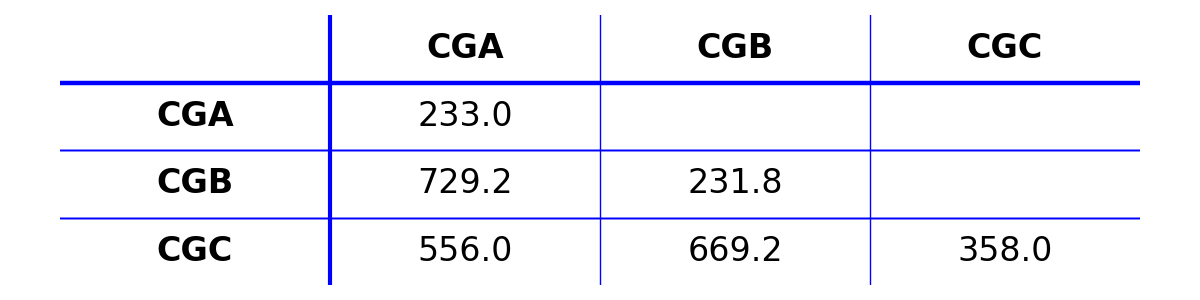
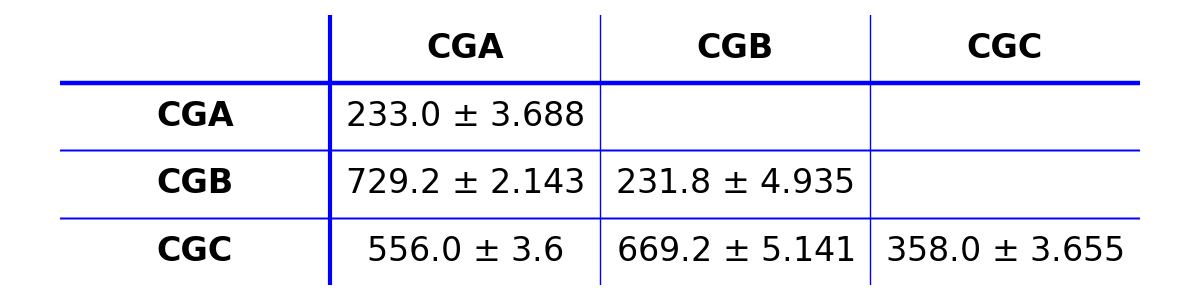
Number of contacts uncertainty.

diff --git a/contacts_plt.py b/contacts_plt.py
@@ -20,27 +20,31 @@ ax=plt.subplot(1,1,1)
 
 plt.axis('off')
 
-tab={}
+val={}
+err={}
 labx=[]
 laby=[]
 
 for line in fi:
  w=line.split()
 
- tab[w[0],w[1]]=w[2]
+ val[w[0],w[1]]=w[2]
+ err[w[0],w[1]]=w[4]
 
  if w[0] not in labx:
   labx.append(w[0])
  if w[1] not in laby:
   laby.append(w[1])
 
-mat=numpy.zeros((len(labx),len(laby)))
+valmat=numpy.zeros((len(labx),len(laby)))
+errmat=numpy.zeros((len(labx),len(laby)))
 
 for matx in range(0,len(labx)):
  for maty in range(0,len(laby)):
 
-  if (labx[matx],laby[maty]) in tab:
-   mat[matx,maty]=tab[labx[matx],laby[maty]]
+  if (labx[matx],laby[maty]) in val:
+   valmat[matx,maty]=val[labx[matx],laby[maty]]
+   errmat[matx,maty]=err[labx[matx],laby[maty]]
 
 ### plot label x
 
@@ -72,8 +76,10 @@ for matx in range(0,len(labx)):
 
   plot([0,10],[maty+1.5,maty+1.5],color=lc,lw=linew)	### horizontal line
 
-  if (labx[matx],laby[maty]) in tab:	### leave empty if the matrix is symmetric
-   ax.text(matx+2,len(laby)-maty,mat[matx,maty],ha="center",va="center",fontsize=fs)
+  if (labx[matx],laby[maty]) in val:	### leave empty if the matrix is symmetric
+   ax.text(matx+2,len(laby)-maty,
+   str(valmat[matx,maty])+r" $\pm$ "+str(errmat[matx,maty]),
+   ha="center",va="center",fontsize=fs)
 
 xlim(0.5,len(labx)+1.5)
 ylim(0.5,len(laby)+1.5)

diff --git a/README.md b/README.md
@@ -67,6 +67,7 @@ If not specified by the *-bs* option the bin size is equal to 0.5 nm.
 <li>Number and percentage of contacts betweed different types of molecules (<i>contacts.dat</i>).</li>
 </ol>
 
+
 ![alt text](https://github.com/Aksonik/cg-clusters/blob/master/contacts.png)
 
 #### What else does it need?
